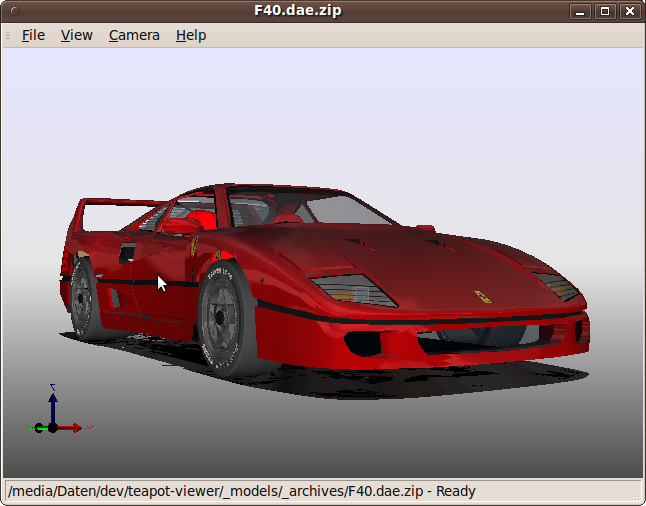
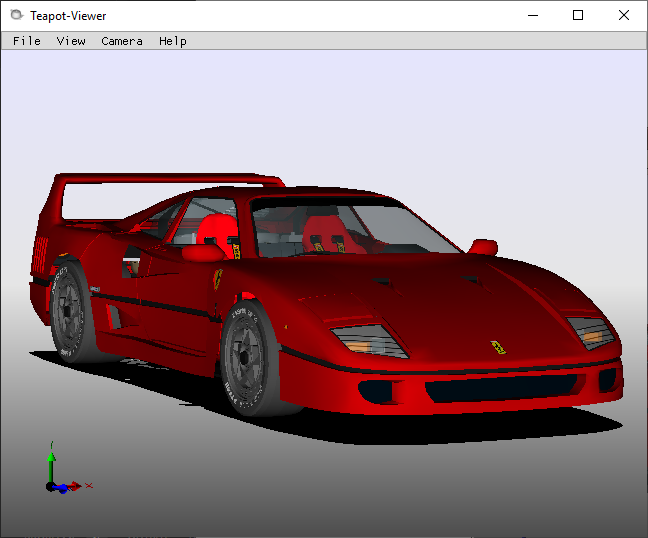
static

diff --git a/main_importer.cpp b/main_importer.cpp
@@ -1,6 +1,26 @@
 
+
 #define XcreatePlugIn CreateAssimpLoader
 #include "assimp_loader/src/AssimpLoader.cpp"
 
-// #define XcreatePlugIn CreateOCLoader
-// #include "opencascade_loader/src/OCLoader.cpp"
+#define XcreatePlugIn CreateLib3DSLoader
+#include "lib3ds_loader/src/io3DS.cpp"
+#include "lib3ds_loader/lib3ds-20080909/src/lib3ds_atmosphere.c"
+#include "lib3ds_loader/lib3ds-20080909/src/lib3ds_background.c" 
+#include "lib3ds_loader/lib3ds-20080909/src/lib3ds_camera.c"
+#include "lib3ds_loader/lib3ds-20080909/src/lib3ds_chunk.c"
+#include "lib3ds_loader/lib3ds-20080909/src/lib3ds_chunktable.c" 
+#include "lib3ds_loader/lib3ds-20080909/src/lib3ds_file.c"
+#include "lib3ds_loader/lib3ds-20080909/src/lib3ds_io.c"
+#include "lib3ds_loader/lib3ds-20080909/src/lib3ds_light.c" 
+#include "lib3ds_loader/lib3ds-20080909/src/lib3ds_material.c" 
+#include "lib3ds_loader/lib3ds-20080909/src/lib3ds_math.c"
+#include "lib3ds_loader/lib3ds-20080909/src/lib3ds_matrix.c" 
+#include "lib3ds_loader/lib3ds-20080909/src/lib3ds_mesh.c"
+#include "lib3ds_loader/lib3ds-20080909/src/lib3ds_node.c"
+#include "lib3ds_loader/lib3ds-20080909/src/lib3ds_quat.c"
+#include "lib3ds_loader/lib3ds-20080909/src/lib3ds_shadow.c" 
+#include "lib3ds_loader/lib3ds-20080909/src/lib3ds_track.c"
+#include "lib3ds_loader/lib3ds-20080909/src/lib3ds_util.c"
+#include "lib3ds_loader/lib3ds-20080909/src/lib3ds_vector.c" 
+#include "lib3ds_loader/lib3ds-20080909/src/lib3ds_viewport.c"

diff --git a/main_importer.go b/main_importer.go
@@ -1,12 +1,13 @@
 package main
 
 // #cgo linux pkg-config: assimp
-// #cgo CFLAGS:
-// #cgo CXXFLAGS: -std=c++17 
-// #cgo CXXFLAGS: -Icore/
-// #cgo windows LDFLAGS: -static -static-libgcc -static-libstdc++ -lstdc++fs -lassimp -lz
-// #cgo linux LDFLAGS: -ldl -lstdc++ -lstdc++fs -lassimp
+// #cgo CFLAGS: 
+// #cgo CXXFLAGS: -std=c++17  -fpermissive 
+// #cgo CXXFLAGS: -Icore/  -I./lib3ds_loader/lib3ds-20080909/src/ 
+// #cgo windows LDFLAGS: -static -static-libgcc -static-libstdc++ -lstdc++fs -lassimp -lz -lIrrXML
+// #cgo linux LDFLAGS: -ldl -lstdc++ -lstdc++fs -lassimp 
 // void* CreateAssimpLoader();
+// void* CreateLib3DSLoader();
 import "C"
 import (
 	"fmt"
@@ -14,7 +15,10 @@ import (
 )
 
 func init() {
-	p := C.CreateAssimpLoader()
-	fmt.Println("AssimpLoader:", p)
+	p := C.CreateLib3DSLoader()
+	fmt.Println("Lib3DSLoader:", p)
 	core.RegisterImporter(p)
+	p2 := C.CreateAssimpLoader()
+	fmt.Println("AssimpLoader:", p2)
+	core.RegisterImporter(p2)
 }

diff --git a/lib3ds_loader/lib3ds-20080909/src/lib3ds_file.c b/lib3ds_loader/lib3ds-20080909/src/lib3ds_file.c
@@ -655,20 +655,20 @@ lib3ds_file_read(Lib3dsFile *file, Lib3dsIo *io) {
 }
 
 
-static void
-colorf_write(float rgb[3], Lib3dsIo *io) {
-    Lib3dsChunk c;
+// static void
+// colorf_write(float rgb[3], Lib3dsIo *io) {
+//     Lib3dsChunk c;
 
-    c.chunk = CHK_COLOR_F;
-    c.size = 18;
-    lib3ds_chunk_write(&c, io);
-    lib3ds_io_write_rgb(io, rgb);
+//     c.chunk = CHK_COLOR_F;
+//     c.size = 18;
+//     lib3ds_chunk_write(&c, io);
+//     lib3ds_io_write_rgb(io, rgb);
 
-    c.chunk = CHK_LIN_COLOR_F;
-    c.size = 18;
-    lib3ds_chunk_write(&c, io);
-    lib3ds_io_write_rgb(io, rgb);
-}
+//     c.chunk = CHK_LIN_COLOR_F;
+//     c.size = 18;
+//     lib3ds_chunk_write(&c, io);
+//     lib3ds_io_write_rgb(io, rgb);
+// }
 
 
 static void

diff --git a/README.md b/README.md
@@ -1,15 +1,19 @@
-<b>Teapot-Viewer 1.0a</b>
+<b>Teapot-Viewer 1.0b</b>
 
 The Teapot-Viewer is a fast and extendable 3D-Model Viewer for Linux and Windows.
 
-The GUI is based on wxWidgets. The core/scenegraph is written in C++ using common design pattens (graph,visitor). STL and boost are the only required dependencies. For rendering there s an graphics API independent renderer interface. Currently there is a basic Direct3D 9 and a OpenGL 1.4 renderer implementation.
+The GUI is written in GoLang and is based on [ImGui](https://github.com/ocornut/imgui). The core/scenegraph is written in C++ using common design pattens (graph,visitor). For rendering there s an graphics API independent renderer interface. 
+
+<!--
+Currently there is a basic Direct3D 9 and a OpenGL 1.4 renderer implementation.
 
 * The Direct3D 9 renderer runs a simple shader, supporting bumpmapping, reflectiontexture and alphatextures.
 * The OpenGL renderer uses the fixed pipeline, the textures are loaded with devIL (http://openil.sourceforge.net).
+* -->
 
-The SceneIO Module, provides an internal OBJ laoder/writer. Additionally there is a simple plugin interface. It is possible to load Models from zip files. Reading zip files is based on the Minizip library (http://www.winimage.com/zLibDll/minizip.html).
+The SceneIO Module, provides an internal OBJ reader/writer. Additionally there is a simple plugin interface. It is possible to load Models from zip files.
 
-Currently there are several loader plugins, all base on 3rd-party libraries:
+Currently there are several importer plugins, all base on 3rd-party libraries:
 
 * Assimp (.dae and more) (https://github.com/assimp/assimp/blob/master/Readme.md)
 * lib3DS (.3ds) (http://code.google.com/p/lib3ds/)
